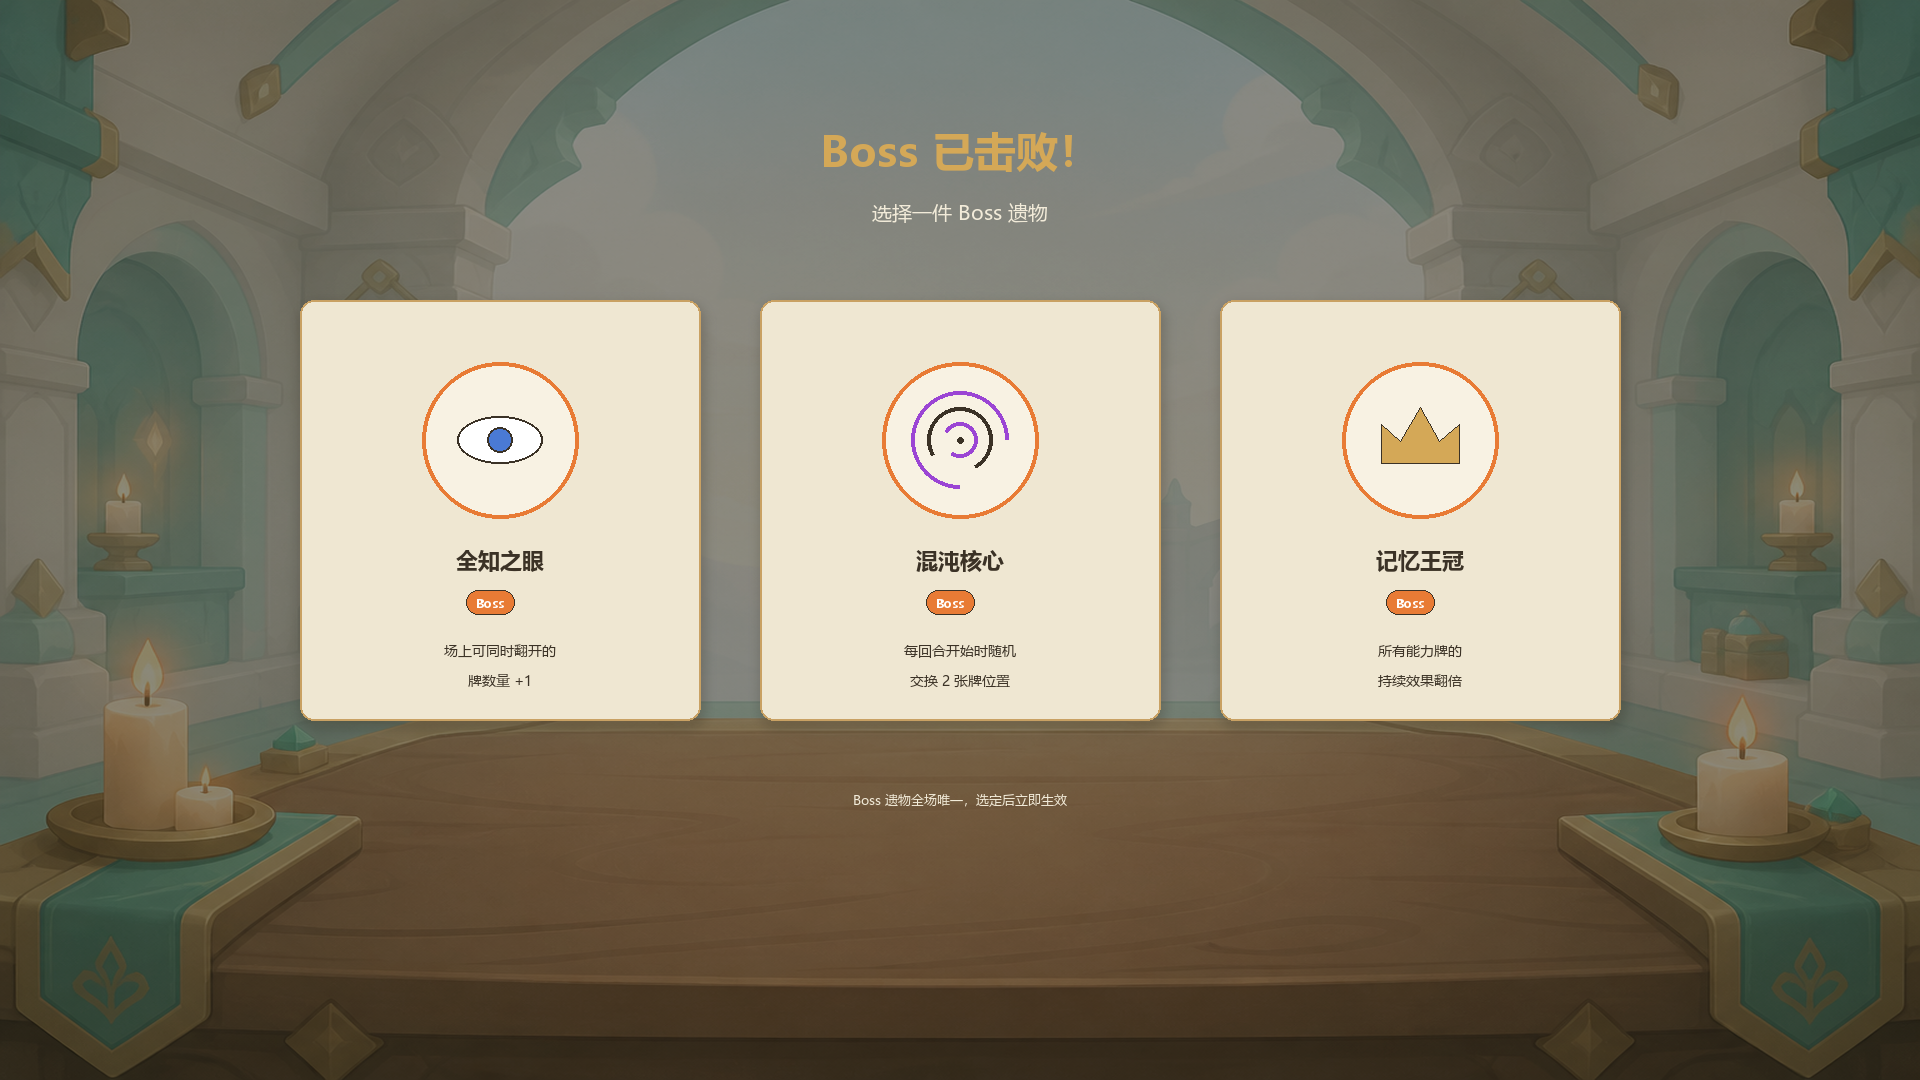
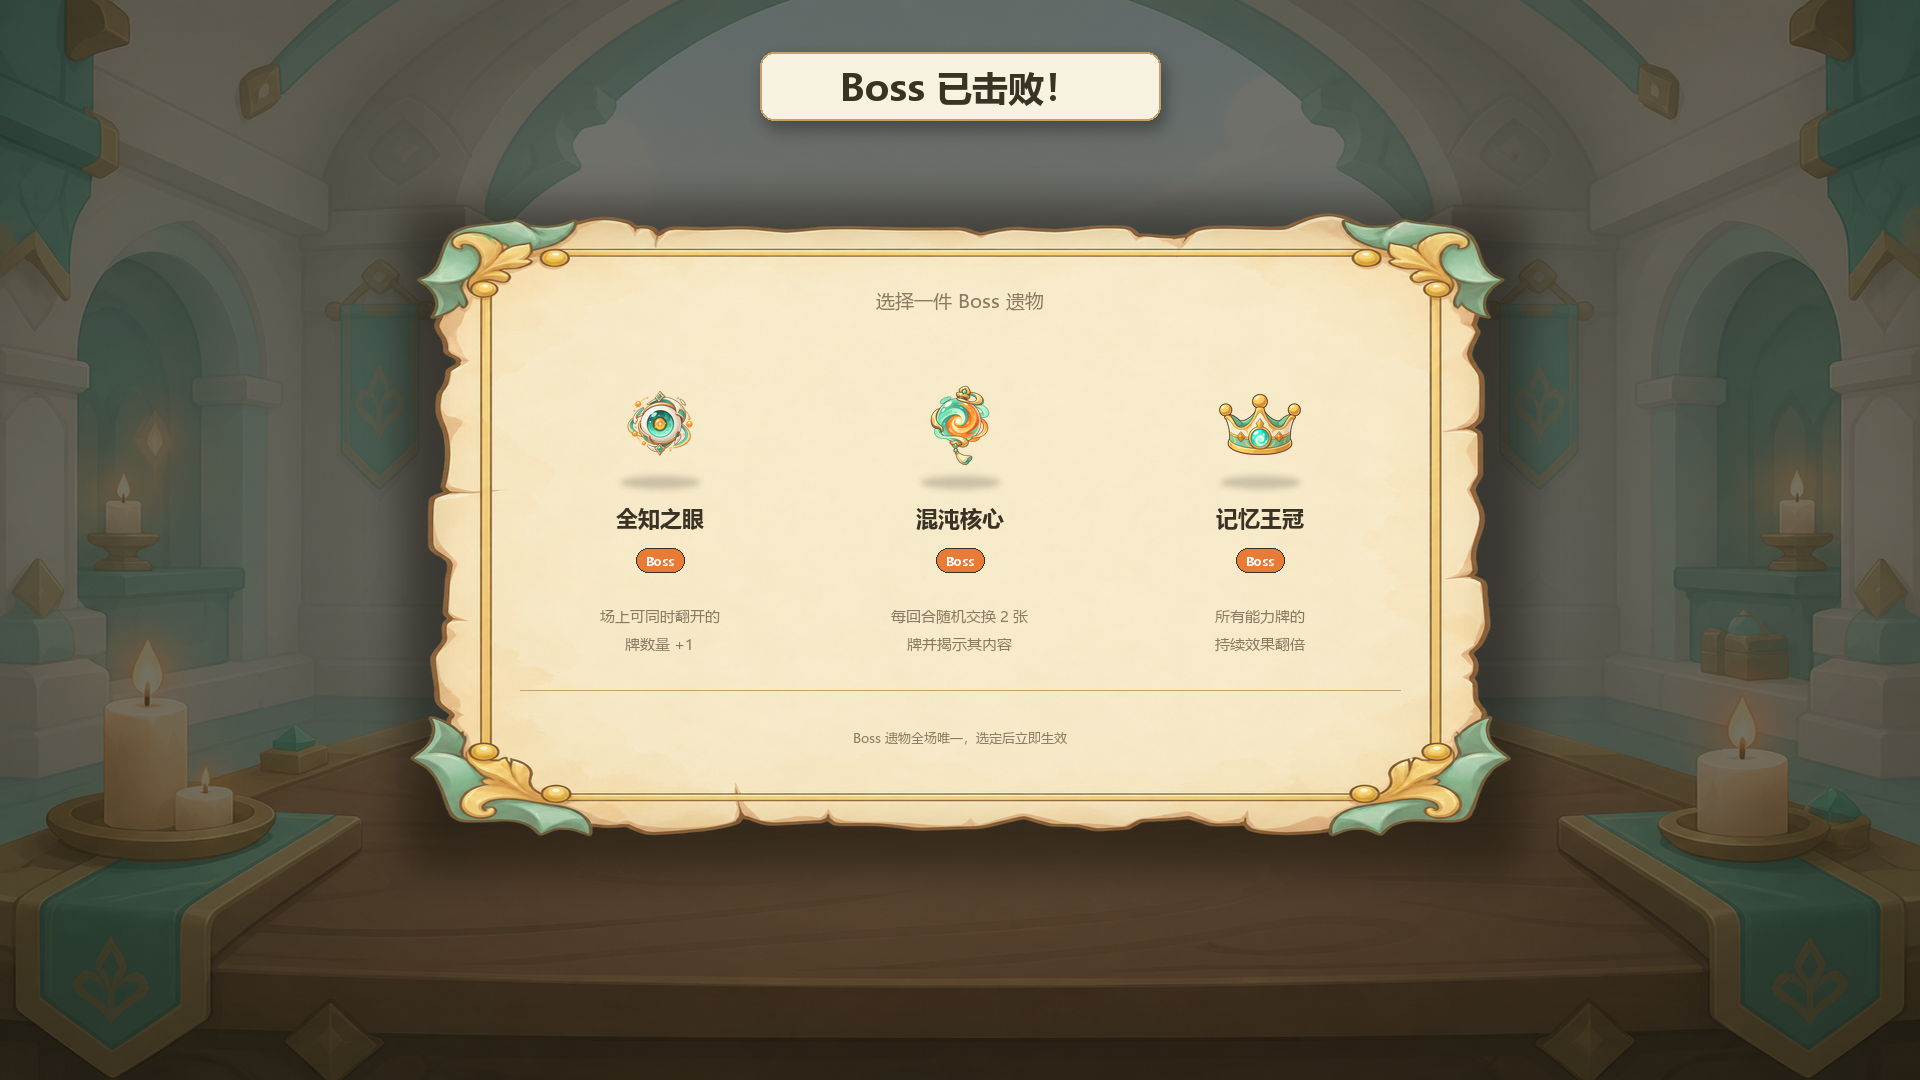
art+docs: S10 Boss 遗物屏收官——Boss 三遗物图标发布（用户拍板'都选第二版'）+ 示意图正式版 + 文档同步 v1.13/v1.16——①三遗物发布 Assets/UI/relics/（relic_ 类 2→5 件）：relic_omniscient_eye=白涡轮环带大眼+瞳中金宝珠、relic_chaos_core=金绿环带缠绕螺旋球+垂坠、relic_memory_crown=圆头三尖金冠+冠面双珠，均用户拍板 2 号候选（vision 择优 1 号仅参考——用户的眼是标准）；落选 _1 三件与旧规范名择优副本（1 号内容）归档 _archived/2026-09

diff --git a/docs/design/09-UI设计规范.md b/docs/design/09-UI设计规范.md
@@ -1,8 +1,7 @@
 # UI 设计规范
 
-> **版本**：1.12
+> **版本**：1.13
 > **日期**：2026-09-05
-> （v1.11 为 S07 商店屏正式版——2026-09-02 提交时头部漏改，本次一并修正）
 > **状态**：待实现
 > **关联文档**：[项目总览](./00-项目总览.md)、[核心战斗机制](./01-核心战斗机制.md)、[卡牌与词条系统](./02-卡牌与词条系统.md)、[状态效果系统](./03-状态效果系统.md)、[敌人系统](./04-敌人系统.md)、[Meta系统](./05-Meta系统.md)
 
@@ -909,30 +908,33 @@ S06 的计数为**库内（单份）张数**——战斗中每张以 2 份出现
 
 ### 8.3 Boss遗物奖励（S10）
 
-**示意图**（程序合成 `ui_mockup.py`；遗物徽记为简笔占位，真遗物图标批量后替换）：
+**示意图**（程序合成 `ui_mockup.py`，v1.13 正式版 2026-09-05 发布）：
 
 <img src="../../Assets/UI/mockups/mockup_s10_bossrelic.png" width="960" alt="S10 Boss遗物奖励示意图" />
 
 ```
-┌──────────────────────────────────────────────────────────────────┐
-│                   Boss 已击败！                                   │
-│              选择一件 Boss 遗物                                   │
-│                                                                  │
-│    ┌──────────────┐  ┌──────────────┐  ┌──────────────┐        │
-│    │              │  │              │  │              │        │
-│    │  [遗物图标]   │  │  [遗物图标]   │  │  [遗物图标]   │        │
-│    │              │  │              │  │              │        │
-│    │  全知之眼    │  │  混沌核心    │  │  记忆王冠    │        │
-│    │   [Boss]     │  │   [Boss]     │  │   [Boss]     │        │
-│    │              │  │              │  │              │        │
-│    │ 场上可同时   │  │ 每回合开始时 │  │ 所有能力牌   │        │
-│    │ 翻开的牌数   │  │ 随机交换2张  │  │ 持续效果翻倍 │        │
-│    │ 量+1         │  │ 牌位置       │  │              │        │
-│    │              │  │              │  │              │        │
-│    └──────────────┘  └──────────────┘  └──────────────┘        │
-│                                                                  │
-└──────────────────────────────────────────────────────────────────┘
+┌────────────────────────────────────────────────────────────────┐
+│              （bg_battle 战场场景 + 暗幕 α140）                  │
+│                 ╭───────────────────╮                          │
+│                 │ ✦ Boss 已击败！ ✦ │ ← 战利牌匾（亮纸胶囊+金边）│
+│                 ╰───────────────────╯                          │
+│     ╭────────── 羊皮纸奖励页 1120×660 ──────────╮             │
+│     │         选择一件 Boss 遗物                  │             │
+│     │      （真遗物图标 88px + 落点影）            │             │
+│     │   ┌─────┐      ┌─────┐      ┌─────┐      │             │
+│     │   │ 👁  │      │ 🌀  │      │ 👑  │      │             │
+│     │   └─────┘      └─────┘      └─────┘      │             │
+│     │   全知之眼      混沌核心      记忆王冠      │             │
+│     │   [Boss]       [Boss]       [Boss]       │             │
+│     │  场上可同时    每回合随机交换   所有能力牌   │             │
+│     │  翻开的牌+1    2张牌并揭示    持续效果翻倍  │             │
+│     │        ───────── 细金分隔线 ────────       │             │
+│     │   Boss 遗物全场唯一，选定后立即生效         │             │
+│     ╰───────────────────────────────────────────╯             │
+└────────────────────────────────────────────────────────────────┘
 ```
+
+> **v1.13 正式版（2026-09-05 发布）**：S10 换用 `bg_battle` 战场场景（暗幕 α140，与 S05/S12 模态一致）+ 顶部战利牌匾（S05 胜利牌匾同款）+ 居中悬浮羊皮纸页（`panel_map_sheet` 整版等比缩放 1120×660）——三列 Boss 遗物**真图标**（`relic_omniscient_eye`/`relic_chaos_core`/`relic_memory_crown`，用户均拍板 2 号候选，88px + 落点影）+ 名称/Boss 橙 chip/效果两行（对齐 [07·遗物设计](./07-遗物设计.md) 词条——混沌核心补"并揭示其内容"，旧版文案漏项）+ 细金分隔线 + 底注；早期"裸金标题 + 平色面板三块 + relic_glyph 简笔占位 + 混沌核心文案漏'揭示'"口径作废。
 
 ---
 
